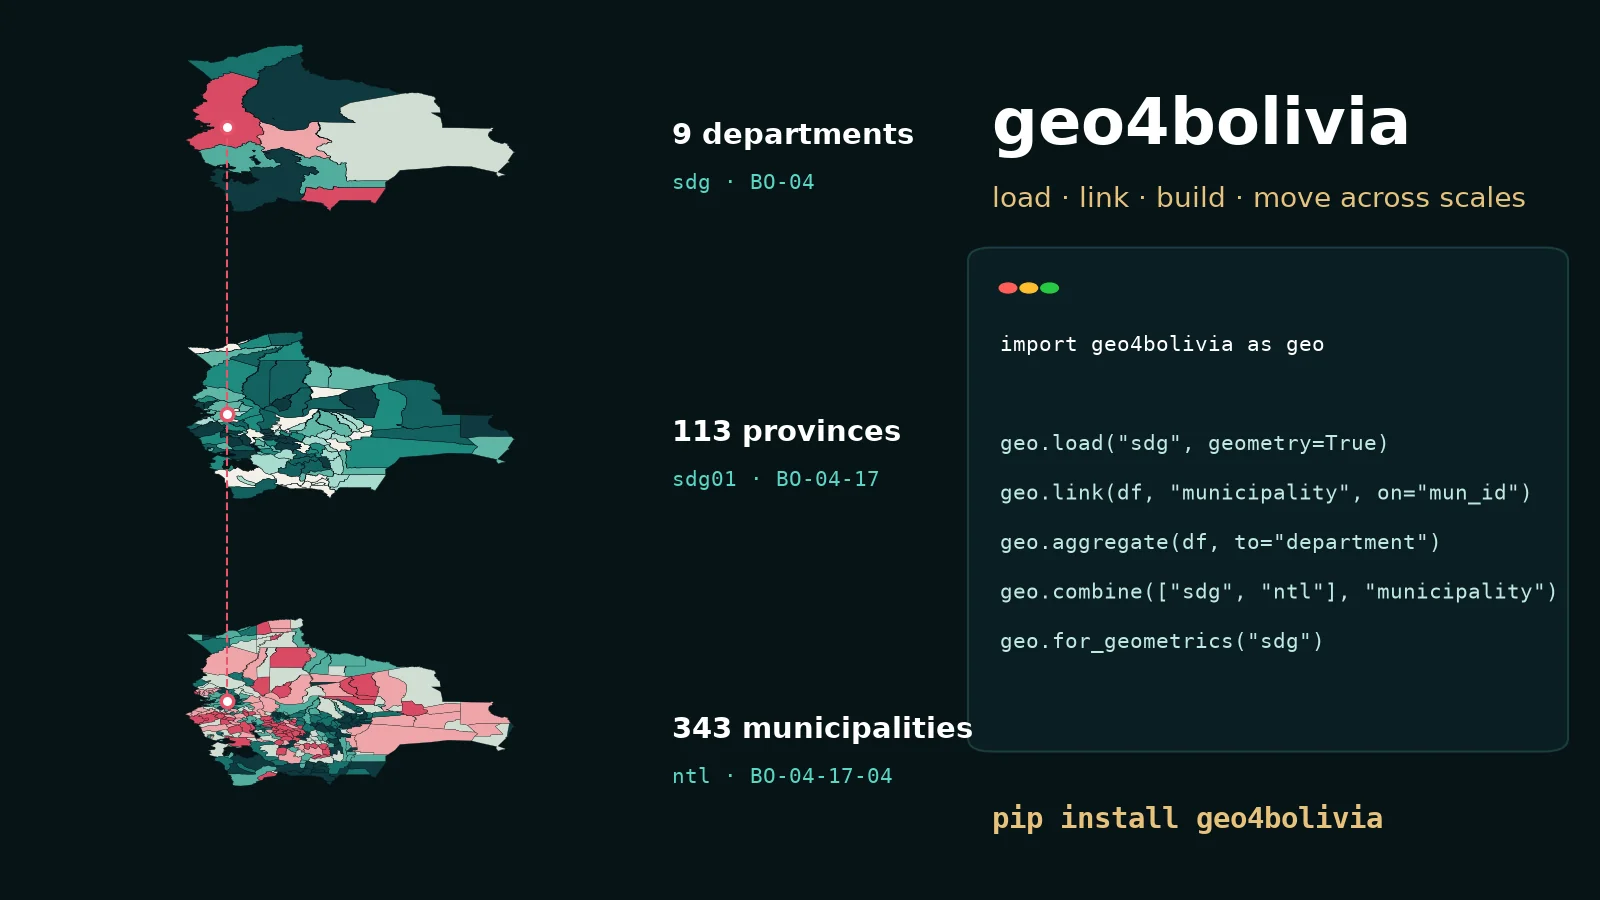
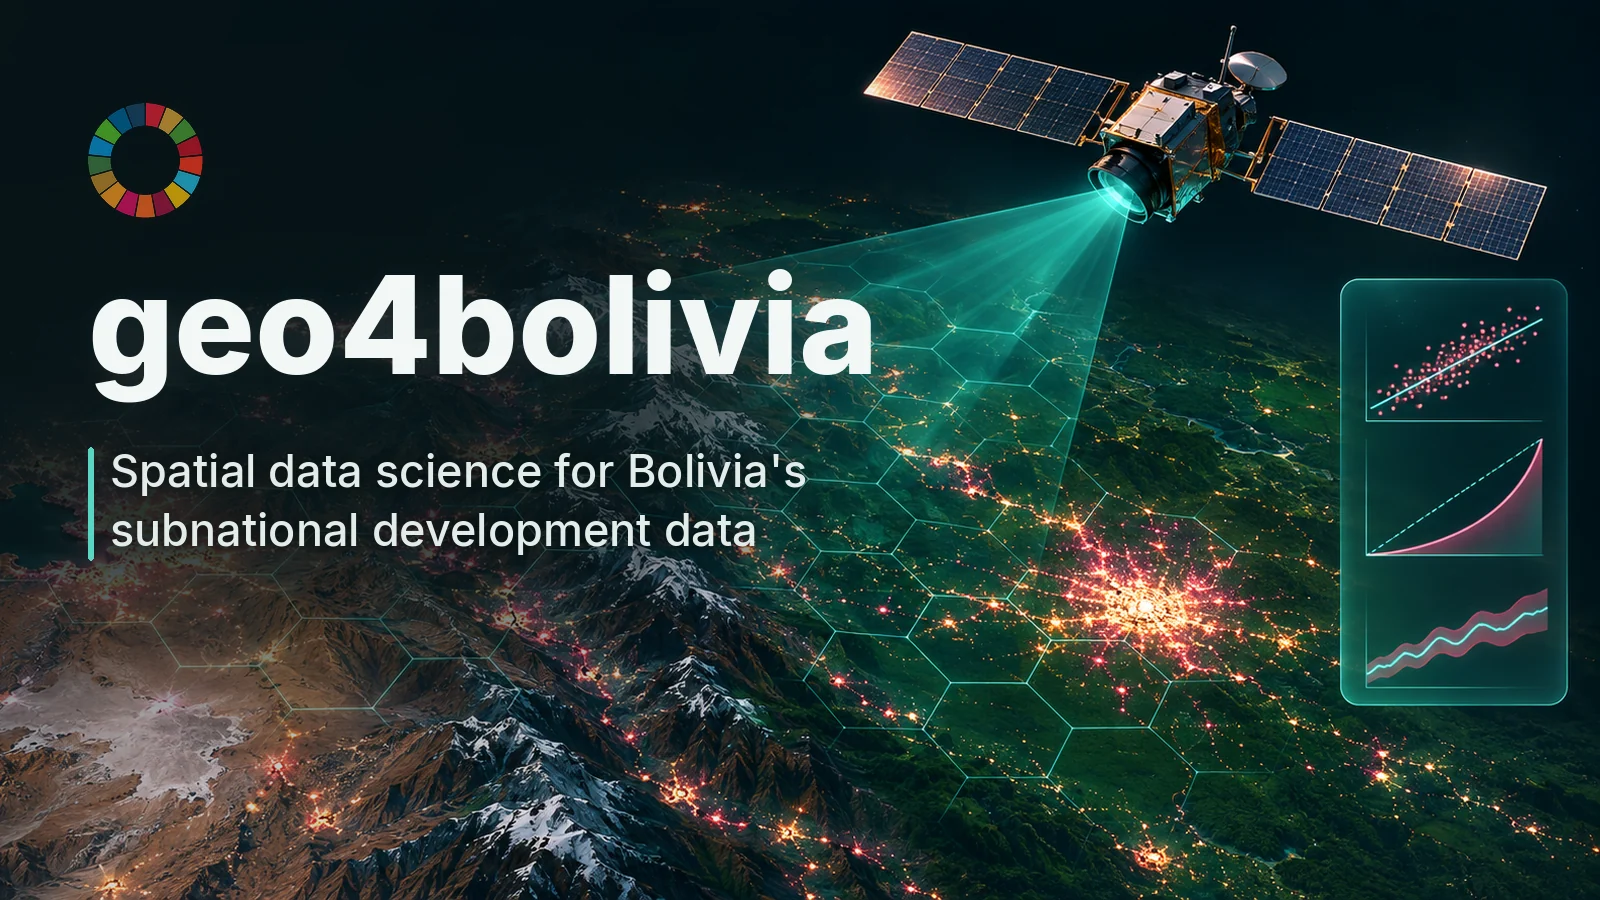
The geo4bolivia card is the package's hero in 16:9
The card comes from the package repository's tools/build_images.py (hero-card.webp): the name, its
tagline and the SDG wheel over the night-lights picture. scripts/site_images.py no longer draws it.

Claude-Session: https://claude.ai/code/session_016sVHGSD5zGXiNWJiYBZA2D

diff --git a/site/src/content.js b/site/src/content.js
@@ -2204,7 +2204,7 @@ px.box(emb.filter(regex=r"^A\\d{2}$"),
     description: 'geo4bolivia is how the observatory’s data are meant to be used. It finds variables across every dataset and explains them (sources, licenses, actual years, how to cite them), loads any indicator in one line as a tidy panel with unit names, parent units and boundaries, and moves it across municipalities, provinces and departments with each variable’s own rule. It then maps the data and runs the fundamental analyses itself, each in one call: exploration, Moran’s I and LISA clusters, β-, σ- and club convergence, transitions and rank mobility, Gini and Theil inequality, regression, panel and spatial models, and multiscale GWR. Every analysis returns an interactive figure, a table and a reading of the result in words, and your own tables and rasters can be linked to the same units.\n\nThe package has its own repository and its own documentation site, with a guide to get started, an article for each method worked through on Bolivia’s data, and a reference with an example for every function; this page is a short introduction. For specialised methods, geo.for_expdpy() and geo.for_geometrics() hand any panel, labelled, to the two companion packages, expdpy and geometrics.',
     tags: ['Python', 'flagship', 'spatial data science', 'multi-scale', 'Colab'],
     image: 'images/tools/geo4bolivia-package.webp',
-    imageAlt: 'Three stacked map layers of Bolivia, 9 departments, 113 provinces and 343 municipalities, linked by geo IDs, beside a code snippet that loads the data',
+    imageAlt: "geo4bolivia: spatial data science for Bolivia's subnational development data. Beside the title, the Sustainable Development Goals wheel and the Andes at night seen from orbit, a satellite sensing the city lights, and a panel of small charts",
     date: '2026-11-20', pinned: true, flagship: true,
     installNote: 'The first line is enough for loading, maps and the core analyses. The extras add the libraries of a few methods; install only those you need, or all of them.',
     install: `!pip install -q geo4bolivia               # loading, maps, core analyses

diff --git a/scripts/site_images.py b/scripts/site_images.py
@@ -403,7 +403,8 @@ def cards() -> None:
     import geo4bolivia as geo
     plt = mpl()
     print("cards")
-    package_card(geo, plt)
+    # The geo4bolivia card (tools/geo4bolivia-package.webp) is the package's hero in 16:9, drawn by the
+    # package repository's tools/build_images.py (hero-card.webp) and copied here; not drawn by this script.
     geometrics_card(geo, plt)
     expdpy_card(geo, plt)
     insight_card(geo, plt)
@@ -438,53 +439,6 @@ def three_packages_card(geo, plt) -> None:
     card_text(fig, "One question,\nthree packages", "Did municipalities converge, ~2012 to ~2024?\nLISA clusters of the Sustainable\nDevelopment Index, ~2024 (p < 0.05)")
     swatches(fig, [(f"{k} ({(gdf['lisa'] == k).sum()})", c) for k, c in LISA_COLORS.items()], y=0.36)
     save_fig(fig, tools / "three-packages.webp")
-
-
-def squash(gdf, y_scale=0.42, dy=0.0):
-    from shapely import affinity
-    out = gdf.copy()
-    out["geometry"] = gdf.geometry.map(lambda g: affinity.affine_transform(g, [1, 0, 0, y_scale, 0, dy]))
-    return out
-
-
-def package_card(geo, plt):
-    import mapclassify
-    fig = plt.figure(figsize=(16, 9))
-    ax = fig.add_axes([0.02, 0.03, 0.4, 0.94]); ax.set_axis_off()
-    ids = geo.load("sdg", variables=["index_sdg", "population"], years=2024)
-    n = geo.units()["scale"].value_counts()
-    layers = [("department", f"{n['department']} departments", "sdg · BO-04", site_cmap()),
-              ("province", f"{n['province']} provinces", "sdg01 · BO-04-17", seq_cmap()),
-              ("municipality", f"{n['municipality']} municipalities", "ntl · BO-04-17-04", site_cmap().reversed())]
-    for i, (scale, label, sub, cmap) in enumerate(layers):
-        b = geo.boundaries(scale)
-        vals = (geo.aggregate(ids, to=scale, variables=["index_sdg"], rules={"index_sdg": "weighted_mean:population"})
-                if scale != "municipality" else ids)
-        g = b.merge(vals, on="geo_id")
-        dy = -i * 9.5
-        sq = squash(g, dy=dy)
-        sq.assign(_c=mapclassify.Quantiles(g["index_sdg"], k=min(6, len(g) - 1)).yb).plot(
-            column="_c", cmap=cmap, ax=ax, edgecolor=BG, linewidth=0.3 if scale != "municipality" else 0.15)
-        pt = geo.boundaries("municipality").set_index("geo_id").loc["BO-04-17-04", "geometry"].representative_point()
-        ax.plot(pt.x, pt.y * 0.42 + dy, "o", ms=9, mfc="white", mec=ROSE, mew=2.5, zorder=5)
-        fig.text(0.42, 0.84 - i * 0.33, label, fontsize=21, weight="bold", color="white")
-        fig.text(0.42, 0.79 - i * 0.33, sub, fontsize=15, color=TURQUOISE, family="DejaVu Sans Mono")
-    ax.plot([pt.x] * 2, [pt.y * 0.42, pt.y * 0.42 - 19], ls="--", color=ROSE, lw=1.5, zorder=4)
-    ax.set_xlim(-70, -57); ax.set_ylim(-31.5, -3.5)
-    fig.text(0.62, 0.84, "geo4bolivia", fontsize=46, weight="bold", color="white")
-    fig.text(0.62, 0.77, "load · link · build · move across scales", fontsize=20, color=SAND)
-    from matplotlib.patches import FancyBboxPatch
-    panel = FancyBboxPatch((0.61, 0.17), 0.365, 0.55, boxstyle="round,pad=0.005,rounding_size=0.015",
-                           transform=fig.transFigure, facecolor=SURFACE, edgecolor=EDGE, lw=1.5)
-    fig.patches.append(panel)
-    for k, c in enumerate(["#ff5f57", "#febc2e", "#28c840"]):
-        fig.patches.append(plt.Circle((0.63 + k * 0.013, 0.68), 0.0055, transform=fig.transFigure, color=c))
-    lines = ['import geo4bolivia as geo', '', 'geo.load("sdg", geometry=True)', 'geo.link(df, "municipality", on="mun_id")',
-             'geo.aggregate(df, to="department")', 'geo.combine(["sdg", "ntl"], "municipality")', 'geo.for_geometrics("sdg")']
-    for k, t in enumerate(lines):
-        fig.text(0.625, 0.61 - k * 0.055, t, fontsize=15, family="DejaVu Sans Mono", color="white" if k == 0 else "#bfe9e2")
-    fig.text(0.62, 0.08, "pip install geo4bolivia", fontsize=21, weight="bold", family="DejaVu Sans Mono", color=SAND)
-    save_fig(fig, IMG / "tools/geo4bolivia-package.webp")
 
 
 def geometrics_card(geo, plt):
